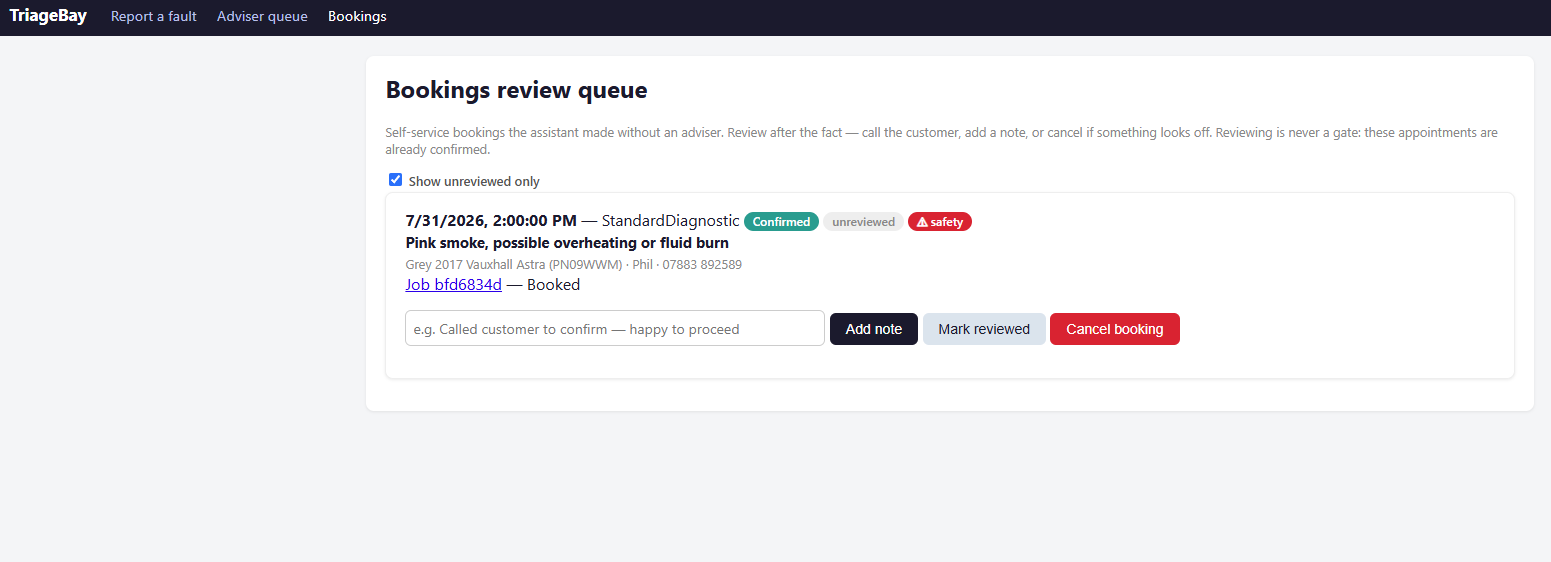
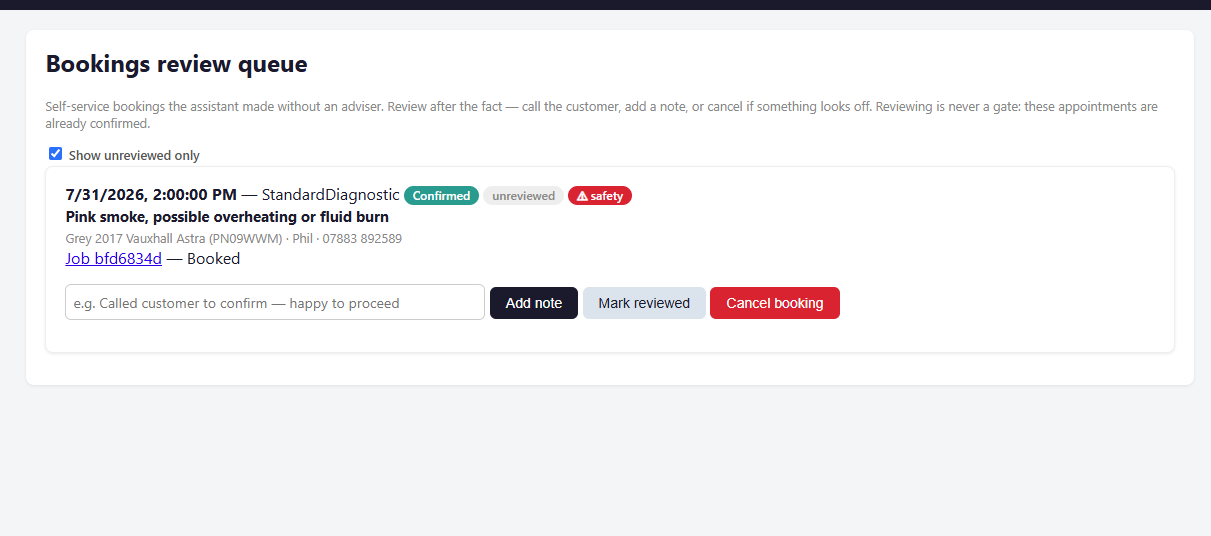
Labs: add AdvertMCP and LogoMCP, TriageBay thumb, drop home lab section

Changed region(s): [[0.0, 0.0, 1.0, 0.6269], [0.0306, 0.2687, 0.1833, 0.2985]]

diff --git a/index.html b/index.html
@@ -137,16 +137,6 @@ figcaption a{color:var(--cyan)}
 .cards{display:grid;grid-template-columns:repeat(auto-fit,minmax(min(100%,340px),1fr));gap:22px;margin-top:48px}
 .card{background:linear-gradient(180deg,var(--surface-2),var(--surface));border:1px solid var(--line);border-radius:14px;overflow:hidden;display:flex;flex-direction:column;transition:transform .25s,border-color .25s,box-shadow .25s}
 .card:hover{transform:translateY(-3px);border-color:var(--cyan);box-shadow:0 20px 50px -24px rgba(34,211,238,.45)}
-.showcase{margin-top:72px}
-.showcase h3{font-size:clamp(26px,3vw,36px);margin:12px 0 10px}
-.showcase .lede{margin-bottom:32px}
-.shots{display:grid;grid-template-columns:repeat(2,minmax(0,1fr));gap:24px}
-.shots figure{margin:0}
-.shots .wide{grid-column:1/-1}
-.shots .frame{background:#fff}
-.shots figcaption{color:var(--muted)}
-.shots figcaption b{color:var(--text)}
-@media(max-width:760px){.shots{grid-template-columns:1fr}}
 .card .art{background:#050a14;border-bottom:1px solid var(--line)}
 .card .art img{width:100%;aspect-ratio:16/10;object-fit:cover;object-position:top}
 .card .placeholder{border:0;border-radius:0}
@@ -159,19 +149,6 @@ figcaption a{color:var(--cyan)}
 .card a.more{font:500 12.5px/1 var(--mono);color:var(--cyan);text-decoration:none;letter-spacing:.04em}
 .card a.more:hover{text-decoration:underline}
 
-/* home lab */
-.homelab{border-top:1px solid var(--line)}
-.net{border:1px solid var(--line-2);border-radius:16px;background:var(--surface);padding:22px;display:grid;gap:12px;text-align:center;font-size:14px}
-.net .row{display:grid;gap:10px;grid-auto-flow:column;grid-auto-columns:1fr}
-.net .n{border:1px solid var(--blue);border-radius:10px;padding:10px 8px;font-weight:600;background:rgba(59,130,246,.10);color:#e6f0ff}
-.net .n small{display:block;font:400 11px/1.4 var(--mono);color:var(--muted);letter-spacing:.03em;margin-top:2px}
-.net .n.dark{background:var(--grad);color:#03101c;border-color:transparent}
-.net .n.dark small{color:#06283a}
-.net .n.soft{border-color:var(--line-2);background:var(--bg-2);font-weight:500;color:var(--text-2)}
-.net .link{color:var(--cyan);font:400 13px/1.3 var(--mono)}
-.net .box{border:1.5px dashed var(--green);border-radius:14px;padding:14px;display:grid;gap:10px;background:rgba(52,211,153,.05)}
-.net .box>b{font:500 11px/1 var(--mono);letter-spacing:.14em;text-transform:uppercase;color:var(--green)}
-@media(max-width:620px){.net .row{grid-auto-flow:row}}
 
 /* capabilities + contact */
 .cap{display:grid;grid-template-columns:repeat(auto-fit,minmax(220px,1fr));gap:20px;margin-top:40px}
@@ -610,6 +587,22 @@ footer .wrap{display:flex;justify-content:space-between;gap:16px;flex-wrap:wrap}
         </div>
       </article>
       <article class="card reveal">
+        <div class="art"><img src="img/advertmcp.svg" alt="Product graphics, a sample advert and a prompt flow through an MCP tool into a finished advert" loading="lazy"></div>
+        <div class="body">
+          <h3>AdvertMCP</h3>
+          <p>An MCP server that is one distinct step in an advertising chain. It accepts individual product graphics, a sample advert and a prompt, and builds the advert. An LLM in an advertising workflow can request one with a single tool call.</p>
+          <div class="tags"><span>MCP</span><span>LLM tools</span><span>Advertising</span><span>Image generation</span></div>
+        </div>
+      </article>
+      <article class="card reveal">
+        <div class="art"><img src="img/logomcp.svg" alt="A headless browser inspects a company website and picks out the most likely logo" loading="lazy"></div>
+        <div class="body">
+          <h3>LogoMCP</h3>
+          <p>An MCP server that looks up a company&rsquo;s logo, mainly from its own website, using Puppeteer and headless Chrome to make a best guess at the company icon. An LLM uses it to get a probable logo when generating customised adverts and branded merchandise.</p>
+          <div class="tags"><span>MCP</span><span>Puppeteer</span><span>Headless Chrome</span><span>Branding</span></div>
+        </div>
+      </article>
+      <article class="card reveal">
         <div class="art"><img src="img/fluttertrain.jpg" alt="flutterTrain course library, lesson and quiz screens" loading="lazy"></div>
         <div class="body">
           <h3>flutterTrain</h3>
@@ -637,7 +630,7 @@ footer .wrap{display:flex;justify-content:space-between;gap:16px;flex-wrap:wrap}
         </div>
       </article>
       <article class="card reveal">
-        <div class="art"><img src="img/triagebay.png" alt="TriageBay adviser queue showing a safety-critical fault sorted to the top" style="aspect-ratio:auto;object-fit:contain" loading="lazy"></div>
+        <div class="art"><img src="img/tb-screenshot3.png" alt="TriageBay bookings review queue" style="aspect-ratio:auto;object-fit:contain" loading="lazy"></div>
         <div class="body">
           <h3>TriageBay</h3>
           <p>A chat-first garage triage and booking system built as an interview exercise. An LLM turns a customer’s free-text fault into a structured record, safety issues are flagged by the prompt and re-checked in deterministic code, and a human adviser stays in the loop at each gate. Developed against a local gpt-oss-20b in LM Studio, with 70 unit tests over the conversation state machine.</p>
@@ -654,61 +647,6 @@ footer .wrap{display:flex;justify-content:space-between;gap:16px;flex-wrap:wrap}
           <p style="font-size:13px;color:#8c93a8">Not published yet.</p>
         </div>
       </article>
-    </div>
-
-    <div class="showcase reveal">
-      <div class="eyebrow">Labs · Up close</div>
-      <h3>TriageBay</h3>
-      <p class="lede">A customer describes a fault in their own words; the assistant asks clarifying questions, books a slot, and a human adviser reviews. The dashed boxes in the chat are the (mocked) tool calls, so the agentic flow is visible rather than hidden.</p>
-      <div class="shots">
-        <figure>
-          <div class="frame"><div class="bar"><i></i><i></i><i></i></div><img src="img/tb-screenshot1.png" alt="TriageBay customer chat ending in a confirmed booking" loading="lazy"></div>
-          <figcaption><b>One chat-first journey</b> · plate lookup, name, number and slot, with tool calls shown. The confirmation is hedged: subject to a technician reviewing.</figcaption>
-        </figure>
-        <figure>
-          <div class="frame"><div class="bar"><i></i><i></i><i></i></div><img src="img/tb-screenshot2-1.png" alt="TriageBay adviser review screen with raw customer text beside the AI triage" loading="lazy"></div>
-          <figcaption><b>Adviser review</b> · the customer’s words, never edited, beside the AI’s structured breakdown, stamped with model and prompt version. Causes are possibilities, not diagnoses.</figcaption>
-        </figure>
-        <figure class="wide">
-          <div class="frame"><div class="bar"><i></i><i></i><i></i></div><img src="img/tb-screenshot2.png" alt="TriageBay fault report queue sorted safety-critical first" loading="lazy"></div>
-          <figcaption><b>Adviser queue</b> · sorted safety-critical first, each row a short summary.</figcaption>
-        </figure>
-        <figure class="wide">
-          <div class="frame"><div class="bar"><i></i><i></i><i></i></div><img src="img/tb-screenshot3.png" alt="TriageBay bookings review queue" loading="lazy"></div>
-          <figcaption><b>Bookings review</b> · self-service bookings are confirmed immediately and reviewed after the fact; reviewing is never a gate.</figcaption>
-        </figure>
-      </div>
-    </div>
-  </div>
-</section>
-
-<section class="homelab" id="homelab">
-  <div class="wrap grid reveal">
-    <div>
-      <div class="eyebrow">Home lab</div>
-      <h2 style="margin-top:16px">Production habits, at home</h2>
-      <p class="intro" style="margin-top:18px">A dual-core Celeron with 8 GB of RAM runs my smart home, my side projects and the AI tooling around them. It sits behind a 5G router with no inbound ports, so it forces the same disciplines as production: constrained resources, a locked-down perimeter and services that recover by themselves.</p>
-      <ul class="facts">
-        <li><strong>Constrained</strong><span>Debian 13 on an Acer Veriton: Celeron 1017U, 8 GB RAM. Docker containers and systemd services share it comfortably.</span></li>
-        <li><strong>Locked down</strong><span>Nothing is exposed directly. The CVApp recruiter bot is published through an ngrok tunnel, everything else is private, and the admin console is token-protected.</span></li>
-        <li><strong>Useful</strong><span>Home Assistant, Syncthing, my AI tooling (Claude Code, OpenCode, OpenClaw, Ollama) and the CVApp all run here.</span></li>
-      </ul>
-    </div>
-    <div class="shot">
-      <div class="net" role="img" aria-label="Home network: the internet reaches a 5G router with no inbound ports, then a Mesh Wi-Fi network. The server runs Home Assistant, CVApp, this site and AI tools. Smart home devices sit on the mesh.">
-        <div class="n soft">Internet<small>ngrok tunnel to the CVApp bot only</small></div>
-        <div class="link">↓</div>
-        <div class="n dark">5G router<small>no inbound ports</small></div>
-        <div class="link">↓</div>
-        <div class="n">Mesh Wi-Fi</div>
-        <div class="link">↓</div>
-        <div class="box">
-          <b>Debian server · Celeron · 8 GB</b>
-          <div class="row"><div class="n">Home Assistant<small>Docker</small></div><div class="n">CVApp<small>bot + admin</small></div><div class="n">This site<small>LAN</small></div></div>
-          <div class="row"><div class="n soft">Claude · OpenCode</div><div class="n soft">OpenClaw · Ollama</div><div class="n soft">Syncthing</div></div>
-        </div>
-        <div class="n soft">Smart home<small>Google Home Minis · Hive · satellite TV</small></div>
-      </div>
     </div>
   </div>
 </section>
